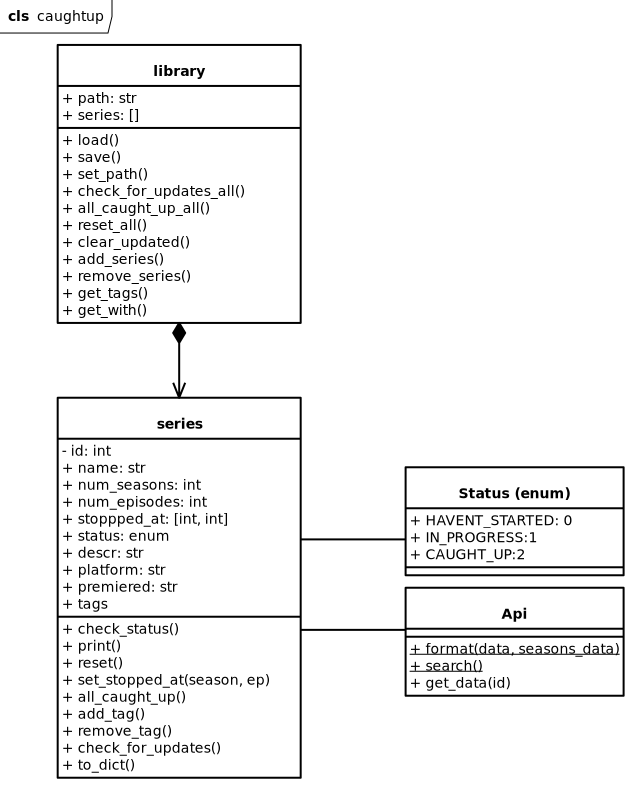
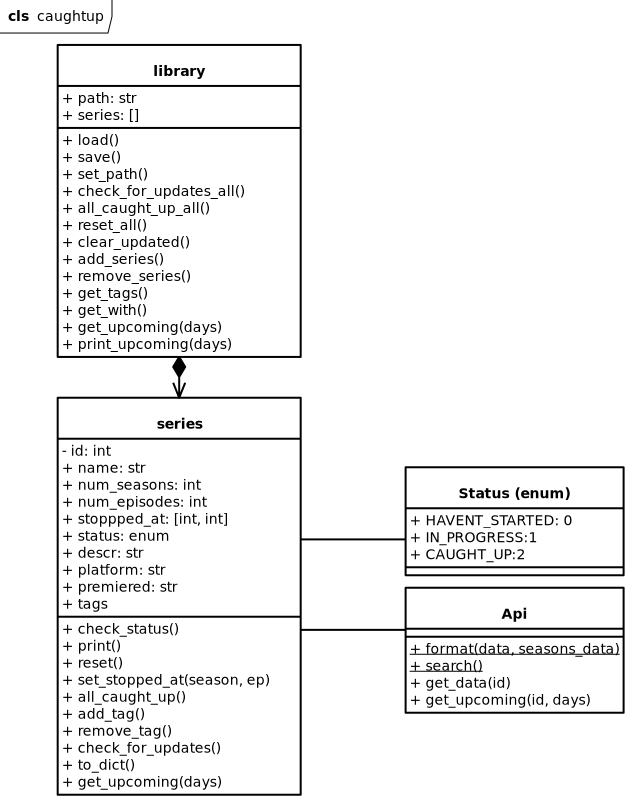
get upcoming functionality added in docs and code that allows one to check for updates for the series you follow. Possible speed improvements can be made in near future

Changed region(s): [[0.0899, 0.0609, 0.989, 1.0], [0.0599, 0.0, 0.1798, 0.0609]]

diff --git a/src/test/test_cli.py b/src/test/test_cli.py
@@ -396,6 +396,100 @@ class TestSetProfileCommand(unittest.TestCase):
         self.assertEqual(result.exit_code, 0)
         mock_set_default.assert_called_once_with("myshow")
 
+# ---------------------------------------------------------------------------
+# @cli.command "upcoming"
+# ---------------------------------------------------------------------------
+class TestUpcomingCommand(unittest.TestCase):
+    """upcoming: prompts for a number of days (IntRange 1-365, default 30)
+    and forwards it to profile.print_upcoming(days).
+ 
+    The first group uses a MagicMock profile to check the prompt/validation
+    behaviour in isolation; the last test uses a real Library + real Series
+    (only Api.get_upcoming is mocked) to check the printed output end to end.
+    """
+ 
+    def setUp(self):
+        self.runner = CliRunner()
+ 
+    def test_blank_input_uses_default_of_30_days(self):
+        profile = MagicMock()
+        result = self.runner.invoke(cli_module.cli, ["upcoming"], obj=profile, input="\n")
+        self.assertEqual(result.exit_code, 0)
+        profile.print_upcoming.assert_called_once_with(30)
+ 
+    def test_custom_number_of_days_is_forwarded(self):
+        profile = MagicMock()
+        result = self.runner.invoke(cli_module.cli, ["upcoming"], obj=profile, input="7\n")
+        self.assertEqual(result.exit_code, 0)
+        profile.print_upcoming.assert_called_once_with(7)
+ 
+    def test_lower_bound_of_range_is_accepted(self):
+        profile = MagicMock()
+        self.runner.invoke(cli_module.cli, ["upcoming"], obj=profile, input="1\n")
+        profile.print_upcoming.assert_called_once_with(1)
+ 
+    def test_upper_bound_of_range_is_accepted(self):
+        profile = MagicMock()
+        self.runner.invoke(cli_module.cli, ["upcoming"], obj=profile, input="365\n")
+        profile.print_upcoming.assert_called_once_with(365)
+ 
+    def test_below_range_reprompts_until_valid(self):
+        profile = MagicMock()
+        result = self.runner.invoke(cli_module.cli, ["upcoming"], obj=profile, input="0\n5\n")
+        self.assertEqual(result.exit_code, 0)
+        self.assertIn("not in the range", result.output)
+        profile.print_upcoming.assert_called_once_with(5)  # 0 was never forwarded
+ 
+    def test_above_range_reprompts_until_valid(self):
+        profile = MagicMock()
+        result = self.runner.invoke(cli_module.cli, ["upcoming"], obj=profile, input="366\n10\n")
+        self.assertEqual(result.exit_code, 0)
+        self.assertIn("not in the range", result.output)
+        profile.print_upcoming.assert_called_once_with(10)
+ 
+    def test_non_integer_reprompts_until_valid(self):
+        profile = MagicMock()
+        result = self.runner.invoke(cli_module.cli, ["upcoming"], obj=profile, input="abc\n14\n")
+        self.assertEqual(result.exit_code, 0)
+        self.assertIn("not a valid integer", result.output)
+        profile.print_upcoming.assert_called_once_with(14)
+ 
+    def test_prompt_text_is_shown(self):
+        profile = MagicMock()
+        result = self.runner.invoke(cli_module.cli, ["upcoming"], obj=profile, input="\n")
+        self.assertIn("Enter number of days to check for upcoming episodes", result.output)
+ 
+    @patch.object(Api, "get_upcoming")
+    def test_end_to_end_prints_upcoming_sorted_by_date(self, mock_get_upcoming):
+        show_a = Series(make_store(id=1, name="Show A"))
+        show_b = Series(make_store(id=2, name="Show B"))
+        lib = Library()
+        lib.series = [show_a, show_b]
+        dates_by_id = {1: ["2026-10-20"], 2: ["2026-10-12", "2026-10-25"]}
+        mock_get_upcoming.side_effect = lambda serie_id, days: dates_by_id[serie_id]
+ 
+        result = self.runner.invoke(cli_module.cli, ["upcoming"], obj=lib, input="14\n")
+ 
+        self.assertEqual(result.exit_code, 0)
+        # the entered number of days reaches the API for every series
+        mock_get_upcoming.assert_any_call(1, 14)
+        mock_get_upcoming.assert_any_call(2, 14)
+        lines = [l for l in result.output.splitlines() if " - Show " in l]
+        self.assertEqual(lines, [
+            "2026-10-12 - Show B",
+            "2026-10-20 - Show A",
+            "2026-10-25 - Show B",
+        ])
+ 
+    @patch.object(Api, "get_upcoming")
+    def test_end_to_end_with_nothing_upcoming_prints_no_entries(self, mock_get_upcoming):
+        lib = Library()
+        lib.series = [Series(make_store(id=1, name="Show A"))]
+        mock_get_upcoming.return_value = []
+        result = self.runner.invoke(cli_module.cli, ["upcoming"], obj=lib, input="\n")
+        self.assertEqual(result.exit_code, 0)
+        self.assertNotIn(" - Show A", result.output)
+
 
 # ---------------------------------------------------------------------------
 # @cli.command "set-path"

diff --git a/src/test/test_library.py b/src/test/test_library.py
@@ -344,6 +344,45 @@ class TestGetWith(unittest.TestCase):
         matches = lib.get_with(key_word="Comedy", tag="drama")
         self.assertEqual(matches, [])
 
+    @patch.object(Api, "get_upcoming")
+    class TestGetUpcoming(unittest.TestCase):
+        def test_get_upcoming_returns_upcoming_episodes(self, mock_get_upcoming):
+            mock_get_upcoming.return_value = ["2024-07-01", "2024-07-15"]
+            lib = Library()
+            lib.series = [
+                Series(make_store(id=1, num_seasons=3, num_episodes=10, tags=[])),
+            ]
+
+            upcoming = lib.get_upcoming(days=30)
+            self.assertEqual(upcoming, [["2024-07-01", "Test Show"], ["2024-07-15", "Test Show"]])
+            mock_get_upcoming.assert_called_once_with(1, 30)
+
+        def test_get_upcoming_with_no_upcoming_episodes_returns_empty(self, mock_get_upcoming):
+            mock_get_upcoming.return_value = []
+            lib = Library()
+            lib.series = [
+                Series(make_store(id=1, num_seasons=3, num_episodes=10, tags=[])),
+            ]
+
+            upcoming = lib.get_upcoming(days=30)
+            self.assertEqual(upcoming, [])
+            mock_get_upcoming.assert_called_once_with(1, 30)
+
+    @patch.object(Api, "get_upcoming")
+    def test_print_upcoming_prints_upcoming_episodes(self, mock_get_upcoming):
+        mock_get_upcoming.return_value = ["2024-07-01", "2024-07-15"]
+        lib = Library()
+        lib.series = [
+            Series(make_store(id=1, num_seasons=3, num_episodes=10, tags=[])),
+        ]
+
+        buf = io.StringIO()
+        with redirect_stdout(buf):
+            lib.print_upcoming(days=30)
+        output = buf.getvalue()
+        self.assertIn("2024-07-01 - Test Show", output)
+        self.assertIn("2024-07-15 - Test Show", output)
+
 
 if __name__ == "__main__":
     unittest.main()

diff --git a/src/test/test_series.py b/src/test/test_series.py
@@ -306,6 +306,24 @@ class TestToDict(unittest.TestCase):
         # rather than deserialized back into an Enum member.
         self.assertEqual(s2.status, s.status)
 
+    @patch.object(Api, "get_upcoming")
+    class TestGetUpcoming(unittest.TestCase):
+        """get_upcoming(): covers both the 'no upcoming' and 'some upcoming'
+        branches, and that the days argument is passed through to Api.get_upcoming."""
+
+        def test_no_upcoming_returns_empty_list(self, mock_get_upcoming):
+            s = Series(make_store())
+            mock_get_upcoming.return_value = []
+            result = s.get_upcoming(days=15)
+            self.assertEqual(result, [])
+            mock_get_upcoming.assert_called_once_with(s.id, 15)
+
+        def test_some_upcoming_returns_list(self, mock_get_upcoming):
+            s = Series(make_store())
+            mock_get_upcoming.return_value = ["2024-07-01", "2024-07-08"]
+            result = s.get_upcoming(days=30)
+            self.assertEqual(result, ["2024-07-01", "2024-07-08"])
+            mock_get_upcoming.assert_called_once_with(s.id, 30)
 
 if __name__ == "__main__":
     unittest.main()

diff --git a/src/core/cli.py b/src/core/cli.py
@@ -94,7 +94,7 @@ Here all key commands can be entered by the user.
 """
 def user_loop(profile):
     ACTIONS = ["list", "add", "update-all", "clear-updated", "get-tags",
-               "caught-up-all", "reset-all", "set-profile", "set-path", "exit"]
+               "caught-up-all", "reset-all", "set-profile", "set-path","upcoming", "exit"]
     
     while True:
         choice = click.prompt("\nACTION", type=click.Choice(ACTIONS, case_sensitive=False))
@@ -158,6 +158,13 @@ def list_series(profile):
     if index==-1:
             return
     series_menu(profile, matches[index])
+
+
+@cli.command("upcoming")
+@click.pass_obj
+def list_upcoming(profile):
+    days = click.prompt("Enter number of days to check for upcoming episodes", type=click.IntRange(1, 365), default=30)
+    profile.print_upcoming(days)
 
 @cli.command("add")
 @click.pass_obj

diff --git a/src/core/api.py b/src/core/api.py
@@ -1,3 +1,5 @@
+from datetime import date, timedelta
+
 import requests
 
 class Api:
@@ -59,6 +61,23 @@ class Api:
 			#data needs to be formatted in a consistent way
 			store = Api.format(data, seasons_data)
 			return store
+		else:
+			print(f"Bad requests 404 for show {id} :3")
+			return None
+
+	@staticmethod
+	def get_upcoming(id, days =30):
+		url = f"https://api.tvmaze.com/shows/{id}/episodes"
+		response = requests.get(url)
+		if response.status_code == 200:
+			data = response.json()
+			today = date.today()
+			end = today + timedelta(days=days)
+			upcoming = []
+			for ep in data:
+				if ep["airdate"] and today <= date.fromisoformat(ep["airdate"]) <= end:
+					upcoming.append(ep["airdate"])
+			return upcoming
 		else:
 			print(f"Bad requests 404 for show {id} :3")
 			return None

diff --git a/src/core/library.py b/src/core/library.py
@@ -140,3 +140,30 @@ class Library:
 				matches.append(serie)
 
 		return matches
+
+	def get_upcoming(self, days=30):
+		'''
+		get the upcoming episodes for all series
+
+		Args:
+			days: number of days to check for upcoming episodes
+		'''
+		upcoming = []
+		for serie in self.series:
+			
+			dates = serie.get_upcoming(days)
+			names = [serie.name]*len(dates)
+			upcoming.extend(list(zip(dates, names)))
+		return upcoming
+
+	def print_upcoming(self, days=30):
+		'''
+		print the upcoming episodes for all series
+
+		Args:
+			days: number of days to check for upcoming episodes
+		'''
+		upcoming = self.get_upcoming(days)
+		upcoming.sort(key=lambda x: x[0])
+		for date, name in upcoming:
+			print(f"{date} - {name}")

diff --git a/src/core/series.py b/src/core/series.py
@@ -132,6 +132,9 @@ class Series:
 			self.add_tag("updated")
 
 	def to_dict(self):
+		'''
+		convert the instance into a dictionary
+		'''
 		store = dict()
 		for key in self.keys:
 			if key !=  "status":
@@ -140,3 +143,12 @@ class Series:
 				store[key]=getattr(self, key).value
 
 		return store
+
+	def get_upcoming(self, days=30):
+		'''
+		get the upcoming episodes for the series
+
+		Args:
+			days: number of days to check for upcoming episodes
+		'''
+		return Api.get_upcoming(self.id, days)

diff --git a/README.md b/README.md
@@ -1,8 +1,10 @@
 # CAUGHT UP
 
-Get a nice CLI to get info on series you like and get info when they get updated with new seasons info and such!
+Get a nice CLI to get info on series you like and get info when they get updated with new seasons info and such! Organize your watch list by tags, see what is coming up this month and use the freedom this app provides to build your own additions!
 
 App is designed to be simple, yet practical. If you have any ideas please share them with me directly!
+
+Store all your data locally! No need for user accounts or giving your data to shady people as well!
 
 ## Set up
 
